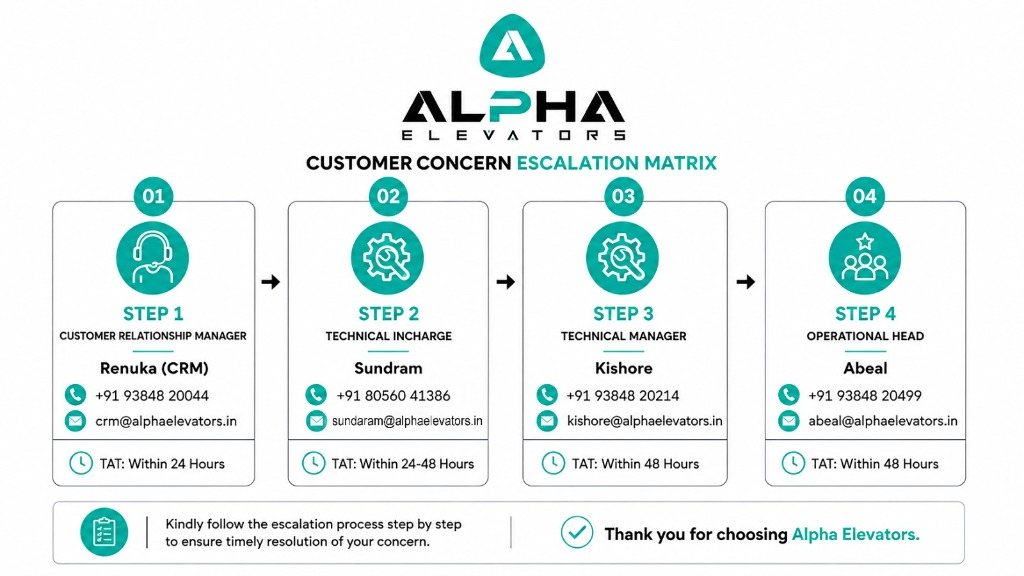
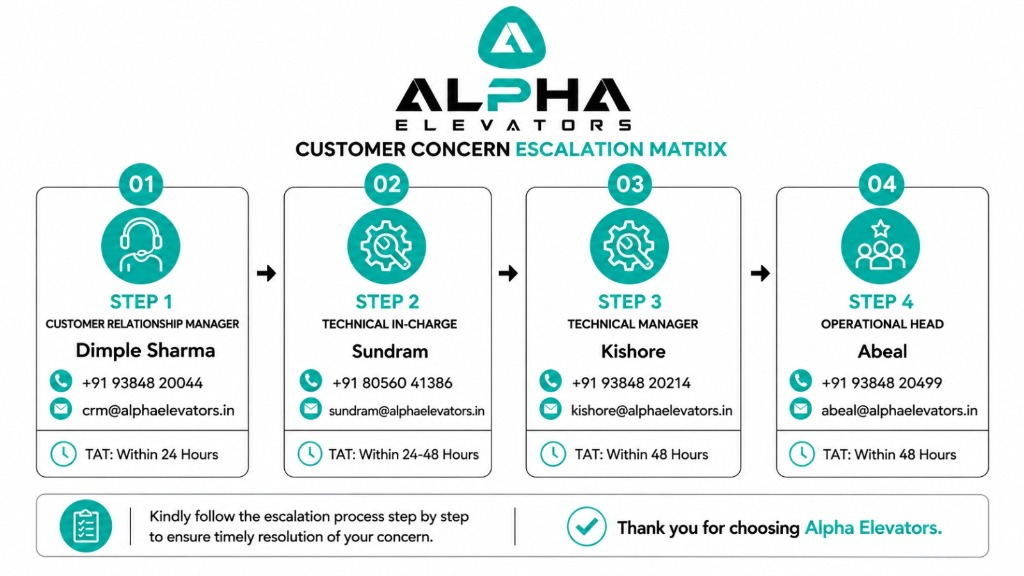
Update Escalation Matrix image and caption, and add sequential Customer Project Journey follow-up dispatch

Changed region(s): [[0.0312, 0.0, 0.9688, 1.0], [0.7188, 0.4375, 0.75, 0.5312]]

diff --git a/backend/src/services/scheduler/schedulerService.ts b/backend/src/services/scheduler/schedulerService.ts
@@ -1228,7 +1228,16 @@ export async function sendEscalationMatrixToProjectGroup(projectId: any): Promis
       return false;
     }
 
-    const matrixCaption = `*Alpha Elevators - Customer Concern Escalation Matrix* 📞\n\nDear Sir/Madam,\n\nThank you for your advance payment confirmation. For your complete peace of mind and transparent project execution, please find our official Customer Concern Escalation Matrix attached above.\n\n• *Step 1 (Customer Relationship Manager):* Renuka (+91 93848 20044 | crm@alphaelevators.in) - TAT: Within 24 Hours\n• *Step 2 (Technical Incharge):* Sundram (+91 80560 41386 | sundaram@alphaelevators.in) - TAT: Within 24-48 Hours\n• *Step 3 (Technical Manager):* Kishore (+91 93848 20214 | kishore@alphaelevators.in) - TAT: Within 48 Hours\n• *Step 4 (Operational Head):* Abeal (+91 93848 20499 | abeal@alphaelevators.in) - TAT: Within 48 Hours\n\nKindly follow the escalation process step by step to ensure timely resolution of your concern.\n\nRegards,\nAlpha Elevators Team`;
+    const matrixCaption =
+      `Alpha Elevators - Customer Concern Escalation Matrix 📞\n\n` +
+      `Dear Sir/Madam,\n\n` +
+      `Thank you for your advance payment confirmation. For your complete peace of mind and transparent project execution, please find our official Customer Concern Escalation Matrix attached above.\n\n` +
+      `* Step 1 (Customer Relationship Manager): Dimple Sharma (+91 93848 20044 | crm@alphaelevators.in) - TAT: Within 24 Hours\n` +
+      `* Step 2 (Technical Incharge): Sundram (+91 80560 41386 | sundaram@alphaelevators.in) - TAT: Within 24-48 Hours\n` +
+      `* Step 3 (Technical Manager): Kishore (+91 93848 20214 | kishore@alphaelevators.in) - TAT: Within 48 Hours\n` +
+      `* Step 4 (Operational Head): Abeal (+91 93848 20499 | abeal@alphaelevators.in) - TAT: Within 48 Hours\n\n` +
+      `Kindly follow the escalation process step by step to ensure timely resolution of your concern.\n\n` +
+      `Regards,\nAlpha Elevators Team`;
 
     const botStatus = whatsAppWebBot.getStatus();
     let sentSuccess = false;
@@ -1295,6 +1304,129 @@ export async function sendEscalationMatrixToProjectGroup(projectId: any): Promis
       });
 
       console.log(`[EscalationMatrix] Successfully posted Customer Concern Escalation Matrix for project ${project.projectId}`);
+
+      // Immediately follow with "Customer Project Journey" message
+      try {
+        const trackingNumber = project.trackingNumber || project.vrlLrNumber || '[Tracking Number]';
+
+        const journeyText =
+          `Alpha Elevators – Customer Project Journey\n` +
+          `1. Advance Payment Received\n` +
+          `Starting Point\n` +
+          `Once the advance payment is received, we will initiate the elevator project process.\n\n` +
+          `2. Site Visit\n` +
+          `Duration: Within 2–4 Days\n\n` +
+          `Our technical team will schedule a site visit, inspect the location and complete the required measurements within 2–4 days.\n\n` +
+          `3. Site Visit Report\n` +
+          `Duration: On the Same Day of the Site Visit\n\n` +
+          `Once the site visit is completed, we will prepare and share the site visit report with you on the same day.\n\n` +
+          `4. Drawing & Cabin Design Preparation\n` +
+          `Duration: Within 4 Days from the Site Visit Report\n\n` +
+          `Based on the site visit report and measurements, our team will prepare the elevator drawing and cabin design within 4 days.\n\n` +
+          `5. Drawing & Cabin Design Approval\n` +
+          `Duration: Customer Approval Required Within 2 Days of Receiving the Drawings\n\n` +
+          `Once the drawings and cabin design are ready, we will share them with you for review and approval. Kindly review and confirm your approval within 2 days so that we can proceed with the next stage without delay.\n\n` +
+          `6. Production Payment\n` +
+          `Duration: Expected Within 3 Days from the Drawing Approval Date\n\n` +
+          `Kindly release the production payment within 3 days of drawing approval to initiate the production process.\n` +
+          `Once the production payment is received, we will proceed with the production process accordingly.\n` +
+          `Production & Installation Timeline: Approximately 120 days from the date of production payment and drawing approval.\n\n` +
+          `7. Production\n` +
+          `Duration: Approximately 90 Days\n` +
+          `The production process will be carried out in stages:\n` +
+          `We will update you on each stage once it is completed. Production progress updates will be shared approximately every 15 days.\n\n` +
+          `8. Readiness Payment\n` +
+          `Once your elevator is ready for dispatch, we will inform you and request the readiness payment to proceed with the material dispatch process.\n` +
+          `Kindly complete the payment at the earliest to avoid any delay in dispatch.\n\n` +
+          `9. Material Ready to Dispatch & In transit \n` +
+          `Duration: Delivery Within 7 Days from Dispatch\n\n` +
+          `Once the readiness payment is received, your elevator material will be dispatched through Partner Logistics Team\n\n` +
+          `Partner Logistics  Team Tracking No.: ${trackingNumber}\n` +
+          `You can use the tracking number to track the material movement.\n` +
+          `We will keep you updated on the delivery status.\n` +
+          `Note: Kindly ensure proper Covered space and access for safe unloading and material storage.\n` +
+          `Note: Additional Warehouse Charges would Imply if you want us to Store the Material Incase there is no sufficient Covered Storage space at your site.\n\n` +
+          `10. Pre-Installation Site Inspection\n` +
+          `Duration: During Material Transit\n\n` +
+          `While the elevator material is in transit, our technical team will simultaneously visit your site for a pre-installation inspection to verify site readiness and installation requirements.\n\n` +
+          `11. Customer Scope of Work & Balance Payment \n\n` +
+          `Complete all Civil, Electrical, Carpentry , Other Required Site Works before Material Delivery \n\n\n` +
+          `12. Material Delivered\n\n` +
+          `Your elevator material will be delivered to your site.\n\n` +
+          `Kindly ensure that the site is ready and accessible for safe material unloading and storage.\n\n` +
+          `12. Installation - Start \n` +
+          `Duration: Within 25–30 Days from Material Delivery\n\n` +
+          `Once the material is delivered to your site, our installation team will arrive and commence the installation work with in 25-30 days.\n` +
+          `During the installation period, we will keep you updated on the work progress through regular notifications.\n\n` +
+          `13. Final Handover.\n\n` +
+          `Duration:  ( Subject to Site Readiness ) We will Completed within 25-30 days from Installation Start date\n` +
+          `Once the installation is completed, we will carry out the final checks and complete the necessary handover formalities.\n\n` +
+          `Project Completed!\n` +
+          `Thank you for choosing Alpha Elevators.\n\n` +
+          `Regards,\nAlpha Elevators Team`;
+
+        // Small pause between messages so WhatsApp group receives them in order
+        await new Promise((resolve) => setTimeout(resolve, 2000));
+
+        let journeySentSuccess = false;
+        let journeyMessageId: string | undefined;
+
+        if (botStatus.isConnected) {
+          console.log(`[EscalationMatrix] Dispatching Customer Project Journey message to group ${inviteTarget} via WhatsApp Web Bot...`);
+          const journeyBotRes = await whatsAppWebBot.sendMessageToGroup(inviteTarget, journeyText);
+          if (journeyBotRes.success) {
+            journeySentSuccess = true;
+            journeyMessageId = journeyBotRes.messageId;
+          } else {
+            console.warn('[EscalationMatrix] Bot journey dispatch notice:', journeyBotRes.error);
+          }
+        }
+
+        if (!journeySentSuccess) {
+          try {
+            console.log(`[EscalationMatrix] Dispatching Customer Project Journey message to group via WATI...`);
+            const watiJourneyRes = await watiService.sendGroupText({
+              target: inviteTarget,
+              targetType: 'GROUP',
+              text: journeyText,
+            });
+            if (watiJourneyRes.success) {
+              journeySentSuccess = true;
+              journeyMessageId = watiJourneyRes.messageId;
+            }
+          } catch (jErr: any) {
+            console.error('[EscalationMatrix] WATI group journey dispatch error:', jErr.message);
+          }
+        }
+
+        if (journeySentSuccess) {
+          await WhatsAppMessageLog.create({
+            projectId: project._id,
+            groupId: project.whatsapp?.groupId || project.whatsappGroupId || 'GROUP',
+            messageText: journeyText,
+            messageType: 'text',
+            scheduledAt: new Date(),
+            attemptedAt: new Date(),
+            sentAt: new Date(),
+            providerMessageId: journeyMessageId,
+            status: 'SENT',
+            attemptCount: 1,
+            isDryRun: false,
+          });
+
+          await logProjectActivity({
+            projectId: project._id,
+            projectCode: project.projectId,
+            type: 'WHATSAPP_SENT',
+            description: `Customer Project Journey message dispatched automatically to WhatsApp group (${project.whatsappGroupName || inviteTarget})`,
+          });
+
+          console.log(`[EscalationMatrix] Successfully posted Customer Project Journey for project ${project.projectId}`);
+        }
+      } catch (journeyErr: any) {
+        console.error('[EscalationMatrix] Error sending Customer Project Journey message:', journeyErr.message);
+      }
+
       return true;
     }
 
